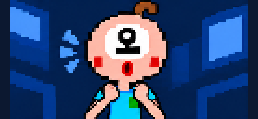
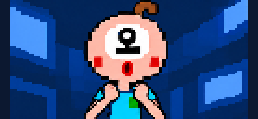
fix: 영클 TV 표정의 방송실 배경을 고정
사용자 요청: 영클 티비는 괜찮은데 배경은 고정. 승인된9포즈 픽셀과 좌표는 유지하고 공통 배경 한 장에 합성한다. 원본·초상화·목소리·대사는 보존한다. 실제 C8표정·준비!·3뷰포트와1104자동검사, 배경/전경 픽셀 일치 및 읽기전용검사를 확인했다. BUILD2026-09-13.142.

diff --git a/src/main.js b/src/main.js
@@ -1230,7 +1230,7 @@ const BACKDROP_OBJ = { mid: '#061408', stem: '#03100a', layers: [
   { par: 0.22, col: '#0a2612', rim: '#133a1e', leaf: '#4a2f6e', base: 156, n: 14, r: [26, 46], sway: 1.3 },
   { par: 0.38, col: '#0f3a1a', rim: '#1b5a2a', leaf: '#2e8a40', base: 186, n: 12, r: [18, 34], sway: 1.8 },
 ] };
-export const BUILD = '2026-09-13.141';
+export const BUILD = '2026-09-13.142';
 const canvas = document.getElementById('screen');
 const game = new Game(canvas);
 window.game = game;   // 콘솔 디버깅용

diff --git a/assets/source/youngcle142/export.py b/assets/source/youngcle142/export.py
@@ -1,0 +1,200 @@
+#!/usr/bin/env -S uv run --script
+# /// script
+# requires-python = ">=3.13"
+# dependencies = ["pillow", "numpy"]
+# ///
+# ─── How to run ───
+# Install uv: curl -LsSf https://astral.sh/uv/install.sh | sh
+# uv run assets/source/youngcle142/export.py
+# ──────────────────
+
+from __future__ import annotations
+
+import hashlib
+import json
+import sys
+from pathlib import Path
+from typing import Final
+
+import numpy as np
+from numpy.typing import NDArray
+from PIL import Image
+
+ROOT: Final = Path(__file__).resolve().parents[3]
+SOURCE: Final = ROOT / "assets/source/youngcle142"
+POSES: Final = (
+    "smirk",
+    "laugh",
+    "greet",
+    "oh",
+    "taunt",
+    "shrug",
+    "bye",
+    "yes",
+    "surprise",
+)
+
+
+def main() -> None:
+    arguments = sys.argv[1:]
+    if arguments and arguments != ["--check"]:
+        raise SystemExit("Usage: export.py [--check]")
+    check_only = bool(arguments)
+    with Image.open(SOURCE / "raw-background.png") as raw:
+        background = raw.convert("RGB").resize((128, 64), Image.Resampling.NEAREST)
+    if not check_only:
+        background.save(SOURCE / "background-logical.png")
+    native_background = Image.new("RGB", (258, 119), (12, 24, 48))
+    native_background.paste(
+        background.resize((238, 119), Image.Resampling.NEAREST), (10, 0)
+    )
+    if not check_only:
+        native_background.save(SOURCE / "background-native.png")
+    plate = np.array(background)
+    native_plate = np.array(native_background)
+    preview = Image.new("RGB", (774, 357))
+    extraction_preview = Image.new("RGB", (768, 384))
+    mask_atlas = Image.new("L", (384, 192))
+    masks: list[NDArray[np.bool_]] = []
+    outputs: list[NDArray[np.uint8]] = []
+    pose_counts: list[dict[str, str | int | bool]] = []
+
+    for index, pose in enumerate(POSES):
+        original_path = ROOT / f"assets/source/youngcle140/logical-{pose}.png"
+        with Image.open(original_path) as original:
+            assert original.size == (128, 64)
+            rgb = np.array(original.convert("RGB"))
+        channels = rgb.astype(np.float32)
+        red, green, blue = channels[:, :, 0], channels[:, :, 1], channels[:, :, 2]
+        warm = (
+            (red >= blue * 0.75) & (red >= green * 0.85) & (channels.max(axis=2) > 45)
+        )
+        cyan_green = (green >= blue * 0.70) & (green >= red * 1.35) & (green > 50)
+        mask = warm | cyan_green
+        dark = channels.max(axis=2) <= 40
+        for _ in range(2):
+            padded = np.pad(mask, 1)
+            adjacent = np.zeros_like(mask)
+            for dy in range(3):
+                for dx in range(3):
+                    adjacent |= padded[dy : dy + 64, dx : dx + 128]
+            mask |= adjacent & dark
+
+        exterior = np.zeros_like(mask)
+        exterior[0, :] = ~mask[0, :]
+        exterior[-1, :] = ~mask[-1, :]
+        exterior[:, 0] = ~mask[:, 0]
+        exterior[:, -1] = ~mask[:, -1]
+        while True:
+            padded = np.pad(exterior, 1)
+            adjacent = (
+                padded[:-2, 1:-1]
+                | padded[2:, 1:-1]
+                | padded[1:-1, :-2]
+                | padded[1:-1, 2:]
+            )
+            expanded = exterior | (adjacent & ~mask)
+            if np.array_equal(expanded, exterior):
+                break
+            exterior = expanded
+        mask |= ~exterior & dark
+        assert np.any(mask)
+        combined = plate.copy()
+        combined[mask] = rgb[mask]
+        assert np.array_equal(combined[mask], rgb[mask])
+        assert np.array_equal(combined[~mask], plate[~mask])
+
+        native = native_background.copy()
+        native.paste(
+            Image.fromarray(combined).resize((238, 119), Image.Resampling.NEAREST),
+            (10, 0),
+        )
+        native_mask_image = Image.new("L", (258, 119))
+        native_mask_image.paste(
+            Image.fromarray(mask.astype(np.uint8) * 255).resize(
+                (238, 119), Image.Resampling.NEAREST
+            ),
+            (10, 0),
+        )
+        native_mask = np.array(native_mask_image) > 0
+        prior_native = Image.new("RGB", (258, 119), (12, 24, 48))
+        prior_native.paste(
+            Image.fromarray(rgb).resize((238, 119), Image.Resampling.NEAREST), (10, 0)
+        )
+        native_pixels = np.array(native)
+        assert np.array_equal(
+            native_pixels[native_mask], np.array(prior_native)[native_mask]
+        )
+        assert np.array_equal(native_pixels[~native_mask], native_plate[~native_mask])
+        output_path = ROOT / f"assets/illustrations/youngcle-tv-{pose}.png"
+        if check_only:
+            with Image.open(output_path) as actual:
+                matches = np.array_equal(
+                    np.array(actual.convert("RGBA")), np.array(native.convert("RGBA"))
+                )
+            if not matches:
+                raise SystemExit(f"Pixel mismatch: {output_path.relative_to(ROOT)}")
+        else:
+            native.save(output_path)
+        masks.append(native_mask)
+        outputs.append(native_pixels)
+        row, column = divmod(index, 3)
+        preview.paste(native, (column * 258, row * 119))
+        mask_atlas.paste(
+            Image.fromarray(mask.astype(np.uint8) * 255), (column * 128, row * 64)
+        )
+        cutout = Image.fromarray(np.dstack((rgb, mask.astype(np.uint8) * 255)))
+        if not check_only:
+            cutout.save(SOURCE / f"foreground-{pose}.png")
+        contrast = Image.new("RGB", (128, 64), (80, 60, 70))
+        contrast.paste(cutout, (0, 0), cutout)
+        extraction_preview.paste(
+            contrast.resize((256, 128), Image.Resampling.NEAREST),
+            (column * 256, row * 128),
+        )
+        pose_counts.append(
+            {
+                "pose": pose,
+                "logical_foreground_pixels": int(np.count_nonzero(mask)),
+                "native_foreground_pixels": int(np.count_nonzero(native_mask)),
+                "foreground_rgb_and_coordinates_identical": True,
+                "individual_background_matches_plate": True,
+            }
+        )
+
+    union_mask = np.zeros((119, 258), dtype=np.bool_)
+    for native_mask in masks:
+        union_mask |= native_mask
+    for output in outputs:
+        assert np.array_equal(output[~union_mask], native_plate[~union_mask])
+    if check_only:
+        print(
+            f"PASS: {len(POSES)} on-disk TV PNGs match expected pixels; no files written."
+        )
+        return
+    preview.save(SOURCE / "fixed-background-preview.png")
+    extraction_preview.save(SOURCE / "mask-preview.png")
+    mask_atlas.save(SOURCE / "foreground-mask-atlas.png")
+    metadata = {
+        "background_generation": "exec-6967b4d3-1a97-4d96-8b39-1a4e40804b2a.png",
+        "background_source_sha256": hashlib.sha256(
+            (SOURCE / "raw-background.png").read_bytes()
+        ).hexdigest(),
+        "character_source": "../youngcle140/logical-<pose>.png",
+        "logical_size": [128, 64],
+        "native_size": [258, 119],
+        "content_size": [238, 119],
+        "content_position": [10, 0],
+        "resampling": "NEAREST",
+        "mask_rule": "Warm skin/hair/white and cyan/green seeds; two local dark-outline growth passes; enclosed dark glyph pixels retained. Blue room and blue gesture marks excluded.",
+        "poses": pose_counts,
+        "outside_union_background_identical": True,
+        "union_native_foreground_pixels": int(np.count_nonzero(union_mask)),
+        "shared_native_background_pixels": int(np.count_nonzero(~union_mask)),
+        "portraits_modified": False,
+    }
+    _ = (SOURCE / "qc-meta.json").write_text(json.dumps(metadata, indent=2) + "\n")
+
+
+if __name__ == "__main__":
+    main()

diff --git a/assets/source/youngcle142/README.md b/assets/source/youngcle142/README.md
@@ -1,0 +1,18 @@
+# 영클 TV 공통 배경 142
+
+승인된 캐릭터는 `../youngcle140/logical-<표정>.png`의 RGB와 좌표를 그대로 사용한다. 새 그림 생성은 인물 없는 빈 방 배경 한 장뿐이며, 내장 생성 원본 `exec-6967b4d3-1a97-4d96-8b39-1a4e40804b2a.png`를 `raw-background.png`로 보존했다. 초상화와 게임 코드는 바꾸지 않았다.
+
+```sh
+uv run assets/source/youngcle142/export.py
+uv run assets/source/youngcle142/export.py --check
+```
+
+`--check`는 원본으로 예상9장을 메모리에서 계산해 현재 런타임 PNG의 RGBA 픽셀과 비교한다. 이미지·미리보기·메타데이터를 포함해 어떤 파일도 쓰지 않으며, 누락·손상·픽셀 불일치 시 종료 코드가0이 아니다. 옵션 없는 명령만 파일을 다시 내보낸다.
+
+읽기 전용 회귀 검증은 `readonly-check-proof.json`에 기록했다. 현재9장 통과→격리된 복사본에140 버전 laugh 배경 주입 시 실패→격리 파일 복원 후 통과를 확인했다. 검사 전후 파일 목록·내용 SHA-256·수정 시각이 같았다. 실제 게임 PNG는 이 시험 중 바꾸지 않았다.
+
+이 명령은 피부·머리카락·흰색·청록 셔츠·녹색 표식으로 전경을 찾고, 인접한 검정 윤곽과 내부 눈 글자를 함께 보존한다. 원래의 남색·파란 방과 파란 제스처 효과는 제외한다. 마스크는 RGB 변경이나 인물 재생성을 하지 않는다. `foreground-<표정>.png`와 `mask-preview.png`에서 전경을 확인할 수 있다.
+
+새 배경 한 장을 NEAREST128×64로 변환하고, 같은 좌표의 원래 캐릭터 픽셀을 그 위에 복사한다. 최종 파일은 기존과 같은 RGB258×119, 내용238×119·좌상단(10,0)이며 확대는 NEAREST만 사용한다. 출력은 `assets/illustrations/youngcle-tv-{smirk,laugh,greet,oh,taunt,shrug,bye,yes,surprise}.png`다.
+
+`qc-meta.json`에 아홉 표정 각각의 전경 픽셀 수와 검증 결과를 기록한다. 전경의 RGB·좌표가140 원본과 일치하고, 각 전경 바깥 픽셀이 공통 배경과 일치함을 검사한다. 전경9개의 합집합 바깥15,831픽셀도 모든 출력에서 정확히 같다. `foreground-mask-atlas.png`는 같은 순서3×3 마스크, `background-logical.png`·`background-native.png`는 공통 배경, `fixed-background-preview.png`는 최종9장 비교본이다. 마스크와 최종 비교본을 직접 확인했고, 재현 스크립트의 타입·린트 검사도 통과했다.

diff --git a/DESIGN.md b/DESIGN.md
@@ -2,6 +2,8 @@
 
 ## 영클전함1 TV 소개 (BUILD140)
 
+BUILD142: 표정 전환에서도 방송실 배경은 동일한 한 장으로 고정한다. 기존 영클9포즈의 위치·픽셀·초상화를 유지하고, 캐릭터 앞 그림만 공통 배경에 합성한다. 캐릭터 영역을 제외한 배경 픽셀은9컷에서 정확히 같아야 한다. TV 렌더러·대사·음성·카메라·전원 전환은 그대로다. 재현/QC 기준은 `assets/source/youngcle142/`다.
+
 철다리의 기존 청색/은색 철재를 이어받는1344×576 실내다. 바다는 실내에서 보이지 않는다. 남쪽에서 올라오면 중앙 벽의288×176 TV, 오른쪽 위 벽에는 다음 진행 문이 보인다. 큰 화면과5명 배우가 대화창 위230px 안에서 읽히도록 TV 장면은0.72배로 구도화하고 마지막에 원래 카메라/배율/파티 추종으로 돌아온다. 철다리의 열린 선체 입구는 방향키로 자동 통과하며, 실내 닫힌 문 조사와 대화만 C다. 이벤트는 최초1회다.
 
 TV는 기존 월드 소품 내부258×119에만 그린다. `TvBroadcast`가 전원 켜짐0.8초(가로 스캔선에서 열림)→정지 도트 방송→꺼짐0.28초를 표시한다. `assets/illustrations/youngcle-tv-*`9컷은 배경까지 있는 팔짱/폭소/인사/놀람/근접도발/어깨으쓱/작별/긍정/느낌표 구도다. 큰 외눈·얼굴과 가는 몸통/팔을 유지하고 굵은 픽셀을 최근접으로만 출력한다. 낮은 시점·기울인 고개·비튼 이빨 웃음·과장된 손 원근은 그림 자체에 표현하며 대사 사이에만 컷을 바꾼다. bob/회전/확대는 없으며 스캔선#c7f7ff/알파0.06은 고정이다. 인사 얼굴은 `ㅎㅇ`, 웃음/도발은 `ㅋ`, ‘오’는 `오`, ‘ㅂㅇ’는 `ㅂ`, ‘ㅇㅇ’는 `ㅇ`이며 초상도 맞춘다. `!`는 준비 자산으로 이번 대사에는 쓰지 않는다. 걷기16장은 유지한다. 첫 방송 출현에 지정 `storage_show`, 꺼진 뒤에도 같은 브금을 유지한다.

diff --git a/docs/STATE.md b/docs/STATE.md
@@ -2,6 +2,8 @@
 
 마지막 갱신: 2026-09-13
 
+**영클 TV 배경 고정 (BUILD2026-09-13.142)**: 사용자 ‘영클 티비는 괜찮은데…배경은 고정’에 따라 배경을 표정마다 바꾸던9컷을 공통 방송실 배경 한 장으로 통일했다. 내장 이미지 생성은 빈 배경만 만들고, 승인된140 캐릭터의 픽셀/좌표를 추출해 같은 배경에 합성한다. 초상화·대사·음성·TV 렌더러는 유지한다. 원본·추출/재현·배경/전경 일치 검사는 `assets/source/youngcle142/`가 기준이다. 실제 C입력8표정과 준비용!·375/768/1280 화면을 확인했고 공통 배경15,831픽셀 일치, 페이지 예외0, `tools/dev/check.sh`1,104개 통과다. 화면 증거는 `tests/playtest/shots/youngcle142/`(로컬). 새 UI·맵·이벤트는 없다.
+
 **영클 지정 음성 연결 (BUILD2026-09-13.141)**: 사용자 ‘퀸목소리는 내가보내준링크’, ‘톤은 좋아…살짝 끊기는 감’에 따라 `4wSPkpzSQQE`38.10~38.26초 원본 MP3와 피치0.96/음량1은 유지했다. 영클 `minGap`만0.17→0.12초다. 글자45ms 간격과 기존 제한이 합쳐져180ms마다166.7ms 샘플을 반복하며 빈 구간이 생겼다. 새 반복은135ms로 꼬리를 겹쳐 연결한다. 동일 WebAudio 비교에서321개5ms구간 중 저음량 구간49→0, 피크0.16445→0.16452였고 기존값 복원 시 재현했다. 실제 C대화 환영 문장에서 피치0.96·연속 블립133ms·페이지 예외0을 확인했다(첫 간격181ms는 글자/공백 진행에 따른 차이). 대사 공백/문장 사이 휴지는 유지하며 ‘모든 무음 제거’나 주관적 청취 완벽함을 주장하지 않는다. 다른 목소리·배경음·효과음은 변경하지 않았다. 파일 `src/core/audio.js`, `tests/unit/youngcle-voice.test.mjs`, `design/audio/references.md`.
 
 BUILD141 최종 자동검사: `tools/dev/check.sh`1,104개 통과(실패0), 지정 원본 MP3 변경 없음. 실제 대화와 독립 코드 검토 통과.

diff --git a/design/narrative/cutscenes/youngcle_intro.md b/design/narrative/cutscenes/youngcle_intro.md
@@ -14,6 +14,7 @@ TV 표현은 `smirk`·`laugh`·`greet`·`oh`·`taunt`·`shrug`·`bye`·`yes`·`s
 
 ## 배치와 표시
 
+- BUILD142부터 표정이 바뀌어도 TV 방송실 배경은 같은 한 장으로 고정한다. 영클 포즈·얼굴·초상화와 기존 화면 구도는 유지한다.
 - TV 기준물 `youngcle_tv`: (528,32),288×176. 내부 클립은 이미지 기준 (15,29),258×119이다.
 - 처음 파티 위치는 TV 화면 하단 기준 x=660/596/724,y=264이며 반응 후 y=284다. 쥰희·용준은 x=532/788,y=232에서 반응 후 y=248로 물러난다.
 - TV 장면 줌은0.72, 카메라는(21,7.25)타일에서 반응 시(21,7)로 조금 올라간다. 문 퇴장은(31,7.25)로 팬한다. 엔진의 반 타일 중심 보정까지 포함한 오른쪽 시야는1341.33px로 맵1344px 안에 유지하며 문 전체가 보인다.
